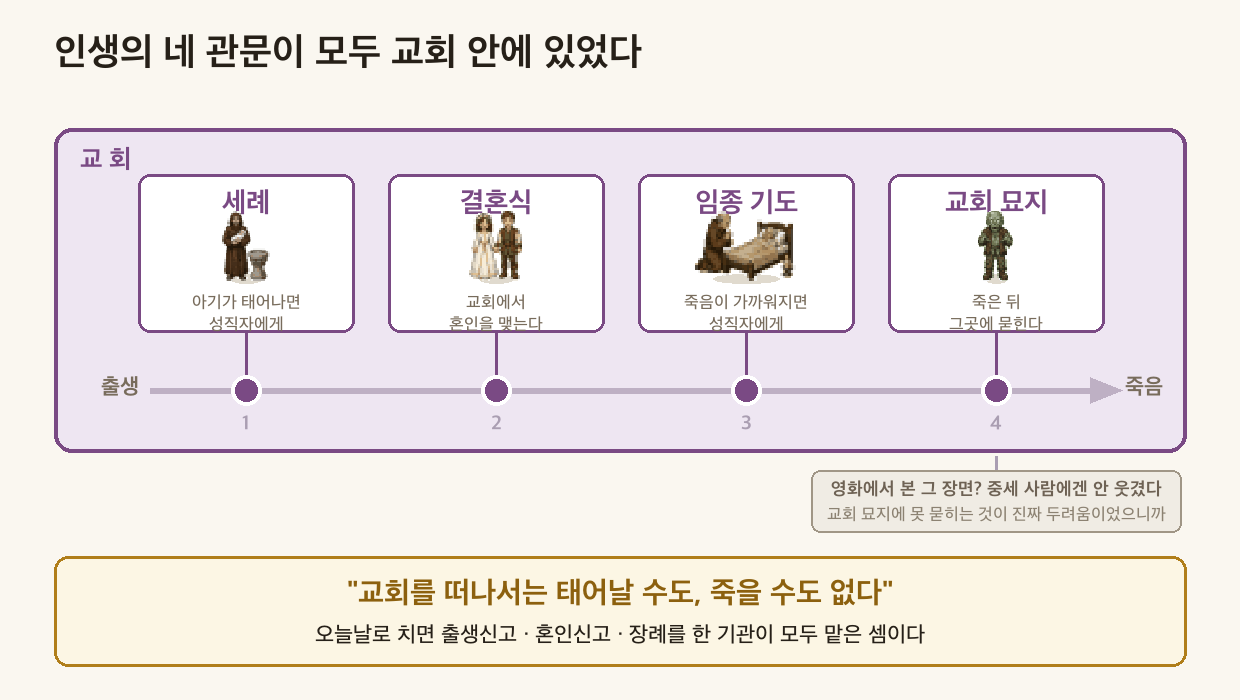
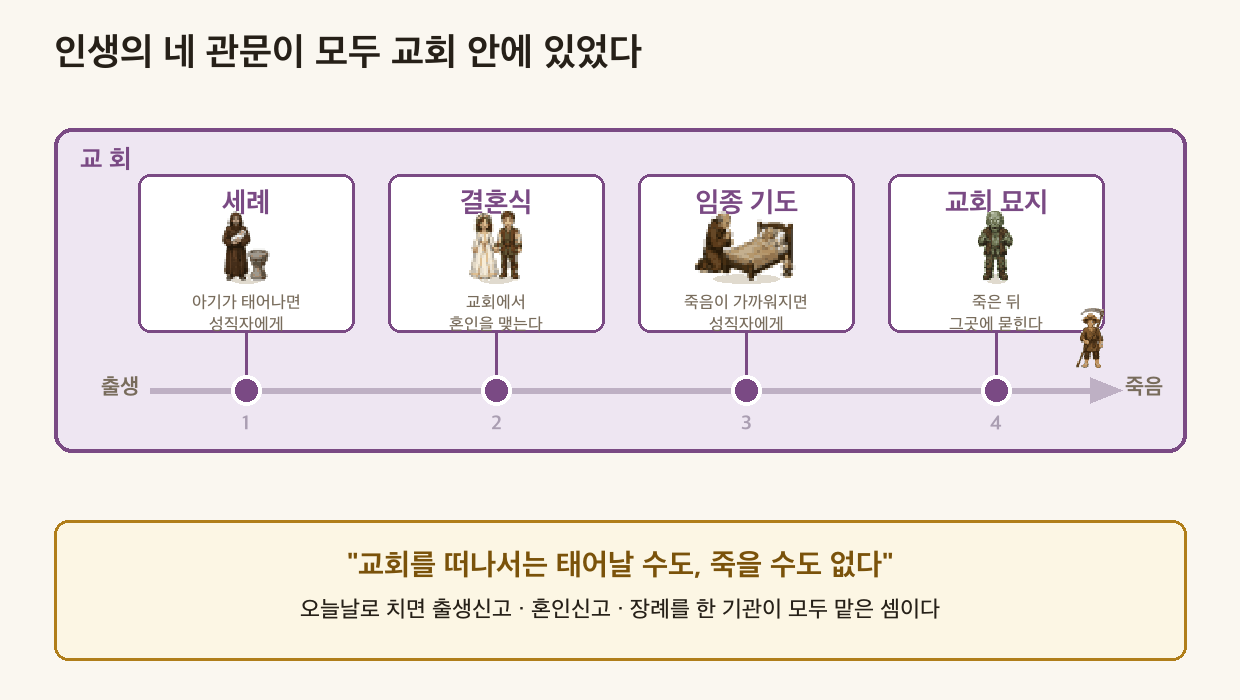
3-3-1 — 세 신분 인물 박스 밖·클릭 강조 / 네 관문 순차 점등 애니
천대현 지시 3건.

■ ① 인물을 박스 밖으로 (세 신분)
박스 안에 가두니 B안 도트의 디테일(수도복·갑옷·밀짚모자)이 안 보였다.
박스는 이름표 역할만 하고 인물은 왼쪽 바깥에 세운다.

■ ② '박스를 클릭하면 화살표로 역할이 강조되게'
클릭 상호작용은 정지 PNG로 안 된다 → **강조 뷰 4장을 굽고 :::gallery 탭으로 전환.**
새 블록을 만들지 않고 이미 검증된 gallery를 재사용했다(탭 = 클릭 대상).
· FOCUS 인자로 pray/fight/farm 뷰 생성. 해당 신분이 **주는** 화살표만 원색,
  나머지는 흐리게(지우지 않는다 — 구조는 계속 보여야 한다) + 박스 후광.
· 농민 탭에서 '주는 쪽이 가장 많다'가 눈에 들어온다.

■ ③ '이동하면서 관문의 단계가 드러나도록' (네 관문)
정지판은 네 카드가 처음부터 다 켜져 있어 *순서*가 안 보였다.
fig_life_four_gates_anim.py 신설 — 한 사람이 출생→죽음 축을 걸어가며
관문에 닿을 때마다 그 카드가 켜지고, 닿는 순간 카드가 한 번 커진다(pad+테두리).
지나온 관문은 켜진 채로 남아 '누적'이 보인다.
· 40프레임 100ms = 4.0초 · loop=1 (WCAG 2.2.2 G152) + 「다시 보기」 버튼
· 정지 PNG도 함께 저장(인쇄·폴백)

검증: act/essay 인덱스 변동 0 · 갤러리 3 · 애니 감지 3종 반영

Claude-Session: https://claude.ai/code/session_01WENst2cudxyR6rXxwWSCeM

Changed region(s): [[0.0306, 0.78, 0.9806, 0.96], [0.0613, 0.66, 0.95, 0.75], [0.8581, 0.42, 0.8887, 0.54]]

diff --git a/worksheets/3-3-1_봉건사회성립_개념편_정답.html b/worksheets/3-3-1_봉건사회성립_개념편_정답.html
@@ -541,7 +541,7 @@ table:has(.ox-group) td:first-child { width: 46px; text-align: center; color: #6
 <p>농민은 인구의 대부분을 차지했고, 장원 안에서 함께 농사지으며 자급자족했다. 그런데 11세기에 쟁기를 개량하고 <strong>말</strong>을 농사에 이용하면서 생산력이 크게 늘었다. 기사들은 농민의 노동으로 살아가는 대신 공동체를 지키는 걸 자기 의무로 여겼고, 평상시엔 사냥과 마상 시합으로 훈련했다. 성직자는 태어남부터 죽음까지를 신과 이어 주는 역할을 했는데, <strong>일부는 왕이나 제후에게 땅을 받아 영주 노릇도 했다.</strong></p>
 <blockquote>(교과서 원문: "11세기에는 쟁기를 개량하고 말을 농사에 이용하면서 농업 생산력이 크게 늘었다." / "수도원장이나 대주교 등 일부 성직자들은 왕이나 제후에게서 땅을 받아 영주로서 장원을 다스리기도 하였다." — 같은 책 p.92)</blockquote>
 <br>
-<figure class="ws-fig"><img src="images/3-3-1_세신분.png" alt="중세의 세 신분 — 화살표는 서로에게 무엇을 하는지를 나타낸다. 아래 띠의 '이상한 일'에 주목할 것." loading="lazy"><figcaption>중세의 세 신분 — 화살표는 서로에게 무엇을 하는지를 나타낸다. 아래 띠의 '이상한 일'에 주목할 것.</figcaption></figure>
+<div class="ws-gal" id="gal146" data-n="4"><div class="ws-gal-head">👉 탭을 눌러 보자. 누른 신분이 <strong>남에게 무엇을 주는지</strong>만 화살표가 살아난다.</div><div class="ws-gal-tabs"><button class="ws-gal-dot on" onclick="galGo('gal146',0)">전체</button><button class="ws-gal-dot" onclick="galGo('gal146',1)">성직자</button><button class="ws-gal-dot" onclick="galGo('gal146',2)">기사</button><button class="ws-gal-dot" onclick="galGo('gal146',3)">농민</button></div><div class="ws-gal-stage"><figure class="ws-gal-slide" data-i="0"><img src="images/3-3-1_세신분.png" alt="셋이 서로에게 무엇을 하는지 한눈에. 화살표 여섯 개가 서로를 먹여 살린다." loading="lazy"><figcaption><b>전체</b> 셋이 서로에게 무엇을 하는지 한눈에. 화살표 여섯 개가 서로를 먹여 살린다.</figcaption></figure><figure class="ws-gal-slide" data-i="1" hidden><img src="images/3-3-1_세신분_pray.png" alt="성직자가 주는 것 — 기사에게 축복·기도, 농민에게 풍년을 빈다." loading="lazy"><figcaption><b>성직자</b> 성직자가 주는 것 — 기사에게 축복·기도, 농민에게 풍년을 빈다.</figcaption></figure><figure class="ws-gal-slide" data-i="2" hidden><img src="images/3-3-1_세신분_fight.png" alt="기사가 주는 것 — 농민에게 보호·안전, 교회를 지킨다." loading="lazy"><figcaption><b>기사</b> 기사가 주는 것 — 농민에게 보호·안전, 교회를 지킨다.</figcaption></figure><figure class="ws-gal-slide" data-i="3" hidden><img src="images/3-3-1_세신분_farm.png" alt="농민이 주는 것 — 기사에게 식량·노동, 성직자에게 십일조. 주는 쪽이 가장 많다." loading="lazy"><figcaption><b>농민</b> 농민이 주는 것 — 기사에게 식량·노동, 성직자에게 십일조. 주는 쪽이 가장 많다.</figcaption></figure></div><div class="ws-gal-nav"><button onclick="galStep('gal146',-1)">‹ 이전</button><span class="ws-gal-count"><b>1</b> / 4</span><button onclick="galStep('gal146',1)">다음 ›</button></div></div>
 <br>
 <blockquote>🎯 <strong>세 신분을 나열로 가르치면 외울 것이 셋 늘 뿐이다.</strong> 이 도식의 축은 <strong>화살표</strong> — <em>서로에게 무엇을 하는가</em>다. 여섯 개 화살표를 손가락으로 따라가면 <strong>아무도 혼자 살지 못하는 구조</strong>가 잡힌다.</blockquote>
 <blockquote><strong>발문</strong>: <em>"이 중 하나가 사라지면 어떻게 될까?"</em> — 학생이 셋의 상호 의존을 스스로 말하게 하는 발문이다.</blockquote>
@@ -596,7 +596,7 @@ table:has(.ox-group) td:first-child { width: 46px; text-align: center; color: #6
 <blockquote>📕 <strong>교과서 92쪽 「종교와 손잡고」</strong> 펴고 채우기 · 배정 시간 <strong>5분</strong></blockquote>
 <p>중세 유럽 사람의 일생은 처음부터 끝까지 교회를 통과했다. 아기가 태어나면 성직자에게 ⑪<span class="blank-filled">세례</span>를 받았고, 그 뒤로도 결혼·임종·무덤까지 모든 관문이 교회 안에 있었다.</p>
 <br>
-<figure class="ws-fig"><img src="images/3-3-1_일생네관문.png" alt="인생의 네 관문이 모두 교회 안에 있었다 — 세례·결혼식·임종 기도·교회 묘지가 출생에서 죽음까지의 축 위에 놓여 있고, 넷 다 교회라는 큰 틀 안에 들어 있다." loading="lazy"><figcaption>인생의 네 관문이 모두 교회 안에 있었다 — 세례·결혼식·임종 기도·교회 묘지가 출생에서 죽음까지의 축 위에 놓여 있고, 넷 다 교회라는 큰 틀 안에 들어 있다.</figcaption></figure>
+<figure class="ws-fig ws-anim"><img id="anim201" src="images/3-3-1_일생네관문.webp" alt="한 사람이 출생에서 죽음까지 걸어간다. 관문에 닿을 때마다 그 칸이 켜진다 — 세례·결혼식·임종 기도·교회 묘지, 넷 다 교회라는 큰 틀 안에 있다." data-src="images/3-3-1_일생네관문.webp" loading="lazy"><div class="ws-anim-ctl"><button type="button" onclick="replayAnim('anim201')">▶ 다시 보기</button><span>한 번 재생됩니다</span></div><figcaption>한 사람이 출생에서 죽음까지 걸어간다. 관문에 닿을 때마다 그 칸이 켜진다 — 세례·결혼식·임종 기도·교회 묘지, 넷 다 교회라는 큰 틀 안에 있다.</figcaption></figure>
 <br>
 <blockquote>🎯 <strong>도식 하나로 「종교와 손잡고」 코너 전체를 대신한다.</strong> 학생에게 <em>"네 개 중 교회 밖에서 할 수 있는 게 하나라도 있니?"</em>를 물으면 답이 "없다"로 모인다 — 그 순간이 다음 차시(교황의 힘)의 발판이다.</blockquote>
 <blockquote>(교과서 원문: "중세 유럽에서는 아기가 태어나면 성직자에게 세례를 받았다. 결혼을 할 때는 교회에서 결혼식을 올렸으며, 죽음이 가까워지면 성직자에게 기도를 받았다. 그리고 죽은 후에는 교회 묘지에 묻혔다. 이처럼 크리스트교는 중세 유럽 사람들의 일생에 큰 영향을 미쳤다." — 같은 책 p.92 「종교와 손잡고」)</blockquote>

diff --git a/worksheets/3-3-1_봉건사회성립_개념편.html b/worksheets/3-3-1_봉건사회성립_개념편.html
@@ -509,7 +509,7 @@ table:has(.ox-group) td:first-child { width: 46px; text-align: center; color: #6
 <p>중세 사람들은 사회를 세 신분으로 나누어 보았다. <strong>성직자</strong>(기도하는 자), <strong>기사</strong>(싸우는 자), <strong>농민</strong>(농사짓는 자)이다.</p>
 <p>농민은 인구의 대부분을 차지했고, 장원 안에서 함께 농사지으며 자급자족했다. 그런데 11세기에 쟁기를 개량하고 <strong>말</strong>을 농사에 이용하면서 생산력이 크게 늘었다. 기사들은 농민의 노동으로 살아가는 대신 공동체를 지키는 걸 자기 의무로 여겼고, 평상시엔 사냥과 마상 시합으로 훈련했다. 성직자는 태어남부터 죽음까지를 신과 이어 주는 역할을 했는데, <strong>일부는 왕이나 제후에게 땅을 받아 영주 노릇도 했다.</strong></p>
 <br>
-<figure class="ws-fig"><img src="images/3-3-1_세신분.png" alt="중세의 세 신분 — 화살표는 서로에게 무엇을 하는지를 나타낸다. 아래 띠의 '이상한 일'에 주목할 것." loading="lazy"><figcaption>중세의 세 신분 — 화살표는 서로에게 무엇을 하는지를 나타낸다. 아래 띠의 '이상한 일'에 주목할 것.</figcaption></figure>
+<div class="ws-gal" id="gal96" data-n="4"><div class="ws-gal-head">👉 탭을 눌러 보자. 누른 신분이 <strong>남에게 무엇을 주는지</strong>만 화살표가 살아난다.</div><div class="ws-gal-tabs"><button class="ws-gal-dot on" onclick="galGo('gal96',0)">전체</button><button class="ws-gal-dot" onclick="galGo('gal96',1)">성직자</button><button class="ws-gal-dot" onclick="galGo('gal96',2)">기사</button><button class="ws-gal-dot" onclick="galGo('gal96',3)">농민</button></div><div class="ws-gal-stage"><figure class="ws-gal-slide" data-i="0"><img src="images/3-3-1_세신분.png" alt="셋이 서로에게 무엇을 하는지 한눈에. 화살표 여섯 개가 서로를 먹여 살린다." loading="lazy"><figcaption><b>전체</b> 셋이 서로에게 무엇을 하는지 한눈에. 화살표 여섯 개가 서로를 먹여 살린다.</figcaption></figure><figure class="ws-gal-slide" data-i="1" hidden><img src="images/3-3-1_세신분_pray.png" alt="성직자가 주는 것 — 기사에게 축복·기도, 농민에게 풍년을 빈다." loading="lazy"><figcaption><b>성직자</b> 성직자가 주는 것 — 기사에게 축복·기도, 농민에게 풍년을 빈다.</figcaption></figure><figure class="ws-gal-slide" data-i="2" hidden><img src="images/3-3-1_세신분_fight.png" alt="기사가 주는 것 — 농민에게 보호·안전, 교회를 지킨다." loading="lazy"><figcaption><b>기사</b> 기사가 주는 것 — 농민에게 보호·안전, 교회를 지킨다.</figcaption></figure><figure class="ws-gal-slide" data-i="3" hidden><img src="images/3-3-1_세신분_farm.png" alt="농민이 주는 것 — 기사에게 식량·노동, 성직자에게 십일조. 주는 쪽이 가장 많다." loading="lazy"><figcaption><b>농민</b> 농민이 주는 것 — 기사에게 식량·노동, 성직자에게 십일조. 주는 쪽이 가장 많다.</figcaption></figure></div><div class="ws-gal-nav"><button onclick="galStep('gal96',-1)">‹ 이전</button><span class="ws-gal-count"><b>1</b> / 4</span><button onclick="galStep('gal96',1)">다음 ›</button></div></div>
 <br>
 <blockquote>💡 <strong>성직자가 영주였다</strong>는 게 이상하지? 이 이상함이 다음 시간(교황과 황제의 싸움) 이야기의 씨앗이야. 기억해 둬.</blockquote>
 <br>
@@ -535,7 +535,7 @@ table:has(.ox-group) td:first-child { width: 46px; text-align: center; color: #6
 <blockquote>📕 <strong>교과서 92쪽 「종교와 손잡고」</strong> 펴고 채우기 · 배정 시간 <strong>5분</strong></blockquote>
 <p>중세 유럽 사람의 일생은 처음부터 끝까지 교회를 통과했다. 아기가 태어나면 성직자에게 ⑪<input type="text" class="blank-input" data-answer="세례" data-id="11" style="width:60px" placeholder="">를 받았고, 그 뒤로도 결혼·임종·무덤까지 모든 관문이 교회 안에 있었다.</p>
 <br>
-<figure class="ws-fig"><img src="images/3-3-1_일생네관문.png" alt="인생의 네 관문이 모두 교회 안에 있었다 — 세례·결혼식·임종 기도·교회 묘지가 출생에서 죽음까지의 축 위에 놓여 있고, 넷 다 교회라는 큰 틀 안에 들어 있다." loading="lazy"><figcaption>인생의 네 관문이 모두 교회 안에 있었다 — 세례·결혼식·임종 기도·교회 묘지가 출생에서 죽음까지의 축 위에 놓여 있고, 넷 다 교회라는 큰 틀 안에 들어 있다.</figcaption></figure>
+<figure class="ws-fig ws-anim"><img id="anim122" src="images/3-3-1_일생네관문.webp" alt="한 사람이 출생에서 죽음까지 걸어간다. 관문에 닿을 때마다 그 칸이 켜진다 — 세례·결혼식·임종 기도·교회 묘지, 넷 다 교회라는 큰 틀 안에 있다." data-src="images/3-3-1_일생네관문.webp" loading="lazy"><div class="ws-anim-ctl"><button type="button" onclick="replayAnim('anim122')">▶ 다시 보기</button><span>한 번 재생됩니다</span></div><figcaption>한 사람이 출생에서 죽음까지 걸어간다. 관문에 닿을 때마다 그 칸이 켜진다 — 세례·결혼식·임종 기도·교회 묘지, 넷 다 교회라는 큰 틀 안에 있다.</figcaption></figure>
 <br>
 <br>
 <blockquote>🎙 이 정도로 삶에 박혀 있었으니, 다음 시간에 배울 <strong>교황의 힘</strong>이 어디서 나왔는지도 짐작이 갈 거야.</blockquote>

diff --git a/worksheets/3-3-1_봉건사회성립_개념편_복습용.html b/worksheets/3-3-1_봉건사회성립_개념편_복습용.html
@@ -509,7 +509,7 @@ table:has(.ox-group) td:first-child { width: 46px; text-align: center; color: #6
 <p>중세 사람들은 사회를 세 신분으로 나누어 보았다. <strong>성직자</strong>(기도하는 자), <strong>기사</strong>(싸우는 자), <strong>농민</strong>(농사짓는 자)이다.</p>
 <p>농민은 인구의 대부분을 차지했고, 장원 안에서 함께 농사지으며 자급자족했다. 그런데 11세기에 쟁기를 개량하고 <strong>말</strong>을 농사에 이용하면서 생산력이 크게 늘었다. 기사들은 농민의 노동으로 살아가는 대신 공동체를 지키는 걸 자기 의무로 여겼고, 평상시엔 사냥과 마상 시합으로 훈련했다. 성직자는 태어남부터 죽음까지를 신과 이어 주는 역할을 했는데, <strong>일부는 왕이나 제후에게 땅을 받아 영주 노릇도 했다.</strong></p>
 <br>
-<figure class="ws-fig"><img src="images/3-3-1_세신분.png" alt="중세의 세 신분 — 화살표는 서로에게 무엇을 하는지를 나타낸다. 아래 띠의 '이상한 일'에 주목할 것." loading="lazy"><figcaption>중세의 세 신분 — 화살표는 서로에게 무엇을 하는지를 나타낸다. 아래 띠의 '이상한 일'에 주목할 것.</figcaption></figure>
+<div class="ws-gal" id="gal96" data-n="4"><div class="ws-gal-head">👉 탭을 눌러 보자. 누른 신분이 <strong>남에게 무엇을 주는지</strong>만 화살표가 살아난다.</div><div class="ws-gal-tabs"><button class="ws-gal-dot on" onclick="galGo('gal96',0)">전체</button><button class="ws-gal-dot" onclick="galGo('gal96',1)">성직자</button><button class="ws-gal-dot" onclick="galGo('gal96',2)">기사</button><button class="ws-gal-dot" onclick="galGo('gal96',3)">농민</button></div><div class="ws-gal-stage"><figure class="ws-gal-slide" data-i="0"><img src="images/3-3-1_세신분.png" alt="셋이 서로에게 무엇을 하는지 한눈에. 화살표 여섯 개가 서로를 먹여 살린다." loading="lazy"><figcaption><b>전체</b> 셋이 서로에게 무엇을 하는지 한눈에. 화살표 여섯 개가 서로를 먹여 살린다.</figcaption></figure><figure class="ws-gal-slide" data-i="1" hidden><img src="images/3-3-1_세신분_pray.png" alt="성직자가 주는 것 — 기사에게 축복·기도, 농민에게 풍년을 빈다." loading="lazy"><figcaption><b>성직자</b> 성직자가 주는 것 — 기사에게 축복·기도, 농민에게 풍년을 빈다.</figcaption></figure><figure class="ws-gal-slide" data-i="2" hidden><img src="images/3-3-1_세신분_fight.png" alt="기사가 주는 것 — 농민에게 보호·안전, 교회를 지킨다." loading="lazy"><figcaption><b>기사</b> 기사가 주는 것 — 농민에게 보호·안전, 교회를 지킨다.</figcaption></figure><figure class="ws-gal-slide" data-i="3" hidden><img src="images/3-3-1_세신분_farm.png" alt="농민이 주는 것 — 기사에게 식량·노동, 성직자에게 십일조. 주는 쪽이 가장 많다." loading="lazy"><figcaption><b>농민</b> 농민이 주는 것 — 기사에게 식량·노동, 성직자에게 십일조. 주는 쪽이 가장 많다.</figcaption></figure></div><div class="ws-gal-nav"><button onclick="galStep('gal96',-1)">‹ 이전</button><span class="ws-gal-count"><b>1</b> / 4</span><button onclick="galStep('gal96',1)">다음 ›</button></div></div>
 <br>
 <blockquote>💡 <strong>성직자가 영주였다</strong>는 게 이상하지? 이 이상함이 다음 시간(교황과 황제의 싸움) 이야기의 씨앗이야. 기억해 둬.</blockquote>
 <br>
@@ -535,7 +535,7 @@ table:has(.ox-group) td:first-child { width: 46px; text-align: center; color: #6
 <blockquote>📕 <strong>교과서 92쪽 「종교와 손잡고」</strong> 펴고 채우기 · 배정 시간 <strong>5분</strong></blockquote>
 <p>중세 유럽 사람의 일생은 처음부터 끝까지 교회를 통과했다. 아기가 태어나면 성직자에게 ⑪<input type="text" class="blank-input" data-answer="세례" data-id="11" style="width:60px" placeholder="">를 받았고, 그 뒤로도 결혼·임종·무덤까지 모든 관문이 교회 안에 있었다.</p>
 <br>
-<figure class="ws-fig"><img src="images/3-3-1_일생네관문.png" alt="인생의 네 관문이 모두 교회 안에 있었다 — 세례·결혼식·임종 기도·교회 묘지가 출생에서 죽음까지의 축 위에 놓여 있고, 넷 다 교회라는 큰 틀 안에 들어 있다." loading="lazy"><figcaption>인생의 네 관문이 모두 교회 안에 있었다 — 세례·결혼식·임종 기도·교회 묘지가 출생에서 죽음까지의 축 위에 놓여 있고, 넷 다 교회라는 큰 틀 안에 들어 있다.</figcaption></figure>
+<figure class="ws-fig ws-anim"><img id="anim122" src="images/3-3-1_일생네관문.webp" alt="한 사람이 출생에서 죽음까지 걸어간다. 관문에 닿을 때마다 그 칸이 켜진다 — 세례·결혼식·임종 기도·교회 묘지, 넷 다 교회라는 큰 틀 안에 있다." data-src="images/3-3-1_일생네관문.webp" loading="lazy"><div class="ws-anim-ctl"><button type="button" onclick="replayAnim('anim122')">▶ 다시 보기</button><span>한 번 재생됩니다</span></div><figcaption>한 사람이 출생에서 죽음까지 걸어간다. 관문에 닿을 때마다 그 칸이 켜진다 — 세례·결혼식·임종 기도·교회 묘지, 넷 다 교회라는 큰 틀 안에 있다.</figcaption></figure>
 <br>
 <br>
 <blockquote>🎙 이 정도로 삶에 박혀 있었으니, 다음 시간에 배울 <strong>교황의 힘</strong>이 어디서 나왔는지도 짐작이 갈 거야.</blockquote>
